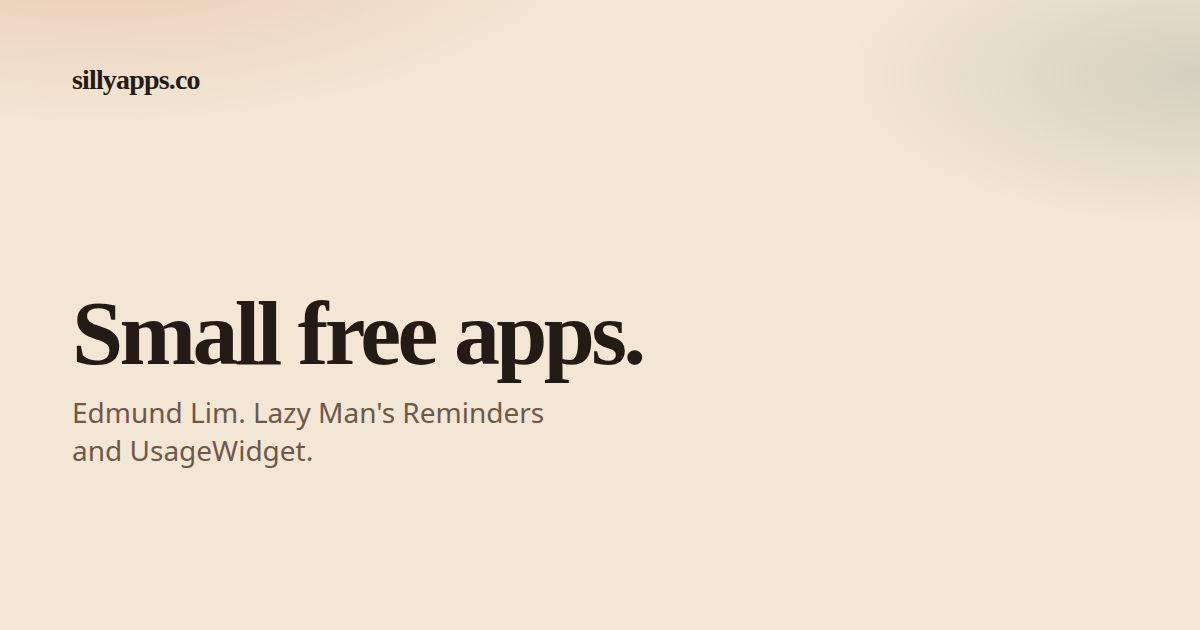
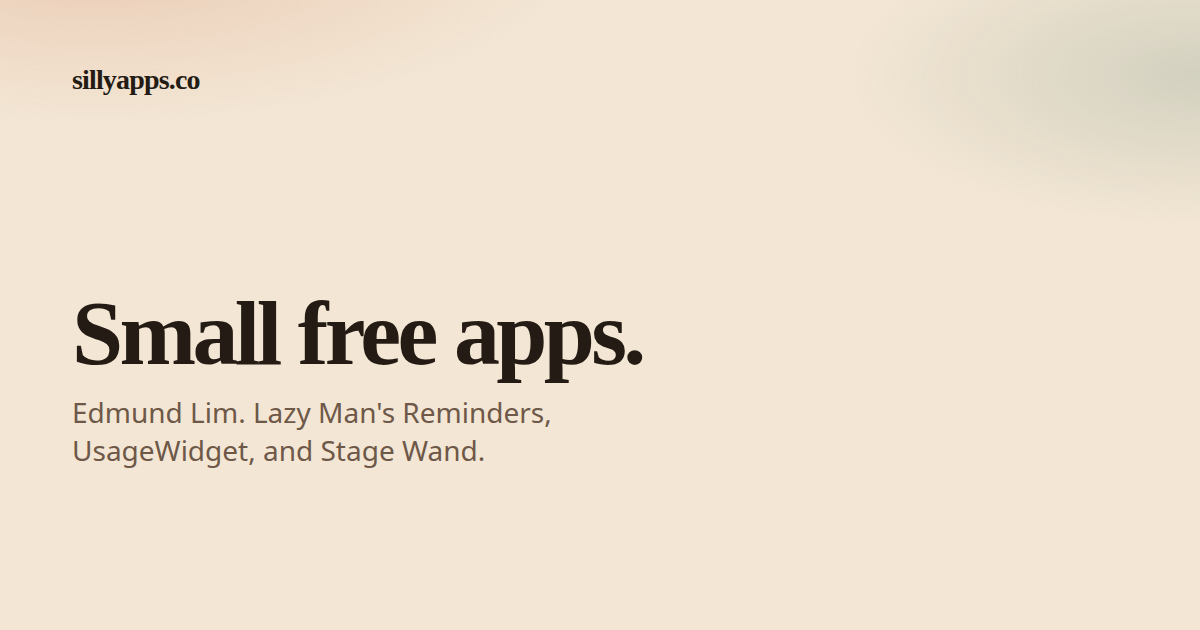
feat(site): add a Stage Wand card to the landing
The home page listed two apps. Stage Wand is a third public app, so the
landing, meta tags, JSON-LD, and OG image name it.

Waitlist stays the primary CTA. GitHub is a ghost button because the
source is public. The checker requires that GitHub URL.

Changed region(s): [[0.0617, 0.6937, 0.4008, 0.754]]

diff --git a/site/index.html b/site/index.html
@@ -4,7 +4,7 @@
     <meta charset="utf-8">
     <meta name="viewport" content="width=device-width, initial-scale=1">
     <title>Silly Apps, small free apps by Edmund Lim</title>
-    <meta name="description" content="sillyapps is Edmund Lim's list of small free apps. Join the waitlist for Lazy Man's Reminders and UsageWidget.">
+    <meta name="description" content="sillyapps is Edmund Lim's list of small free apps. Join the waitlist for Lazy Man's Reminders, UsageWidget, and Stage Wand.">
     <link rel="canonical" href="https://sillyapps.co/">
     <link rel="icon" href="/favicon.svg" type="image/svg+xml">
     <link rel="apple-touch-icon" href="/assets/apple-touch-icon.png">
@@ -14,13 +14,13 @@
     <meta property="og:site_name" content="Silly Apps">
     <meta property="og:url" content="https://sillyapps.co/">
     <meta property="og:title" content="Silly Apps, small free apps by Edmund Lim">
-    <meta property="og:description" content="A one-page list of Edmund Lim's small free apps. Join the waitlist for Lazy Man's Reminders and UsageWidget.">
+    <meta property="og:description" content="A one-page list of Edmund Lim's small free apps. Join the waitlist for Lazy Man's Reminders, UsageWidget, and Stage Wand.">
     <meta property="og:image" content="https://sillyapps.co/assets/og.png">
     <meta property="og:image:width" content="1200">
     <meta property="og:image:height" content="630">
     <meta name="twitter:card" content="summary_large_image">
     <meta name="twitter:title" content="Silly Apps, small free apps by Edmund Lim">
-    <meta name="twitter:description" content="A one-page list of Edmund Lim's small free apps. Join the waitlist for Lazy Man's Reminders and UsageWidget.">
+    <meta name="twitter:description" content="A one-page list of Edmund Lim's small free apps. Join the waitlist for Lazy Man's Reminders, UsageWidget, and Stage Wand.">
     <meta name="twitter:image" content="https://sillyapps.co/assets/og.png">
     <link rel="stylesheet" href="/styles.css">
     <script type="application/ld+json">
@@ -54,6 +54,14 @@
             "operatingSystem": "iOS",
             "offers": { "@type": "Offer", "price": "0", "priceCurrency": "USD" },
             "url": "https://sillyapps.co/"
+          },
+          {
+            "@type": "SoftwareApplication",
+            "name": "Stage Wand",
+            "applicationCategory": "UtilitiesApplication",
+            "operatingSystem": "iOS, macOS",
+            "offers": { "@type": "Offer", "price": "0", "priceCurrency": "USD" },
+            "url": "https://github.com/EdmundLimBoEn/stage-wand"
           }
         ]
       }
@@ -175,6 +183,40 @@
             </ul>
             <p class="cta-row">
               <a class="btn btn-primary" href="#waitlist">Join the waitlist</a>
+            </p>
+          </article>
+
+          <article class="app-card" data-app="stage-wand" data-tone="stage">
+            <div class="app-top">
+              <svg class="icon" viewBox="0 0 72 72" aria-hidden="true">
+                <rect x="12" y="10" width="30" height="52" rx="8" fill="#241c14"/>
+                <rect x="16" y="16" width="22" height="36" rx="3" fill="#fff8ef"/>
+                <rect x="20" y="22" width="14" height="5" rx="1.5" fill="#c45c32"/>
+                <rect x="20" y="31" width="10" height="4" rx="1.5" fill="#e2d0b6"/>
+                <circle cx="27" cy="56" r="2" fill="#ead7bf"/>
+                <circle cx="54" cy="20" r="10" fill="#c45c32"/>
+                <circle cx="54" cy="20" r="4" fill="#fff8ef"/>
+                <rect x="52" y="30" width="4" height="24" rx="2" fill="#c45c32"/>
+              </svg>
+              <div>
+                <p class="app-kicker">Free · iOS 17+ · macOS 14+</p>
+                <h2>Stage Wand</h2>
+              </div>
+              <span class="app-index" aria-hidden="true">03</span>
+            </div>
+            <p class="blurb">
+              Turn an iPhone into a pocket clicker and a trackpad for your Mac.
+              Volume buttons move slides. Unlock the square for pointer, click,
+              scroll, and spaces.
+            </p>
+            <ul class="notes">
+              <li>Volume clicker</li>
+              <li>Trackpad</li>
+              <li>Open source</li>
+            </ul>
+            <p class="cta-row">
+              <a class="btn btn-primary" href="#waitlist">Join the waitlist</a>
+              <a class="btn btn-ghost" href="https://github.com/EdmundLimBoEn/stage-wand">Source on GitHub</a>
             </p>
           </article>
         </div>

diff --git a/site/styles.css b/site/styles.css
@@ -300,6 +300,10 @@ a:hover {
   border-top: 4px solid var(--slate);
 }
 
+.app-card[data-tone="stage"] {
+  border-top: 4px solid var(--accent);
+}
+
 .app-top {
   display: grid;
   grid-template-columns: auto 1fr auto;
@@ -658,6 +662,12 @@ a:hover {
 
   .app-card {
     padding: 1.5rem;
+  }
+}
+
+@media (min-width: 980px) {
+  .app-grid {
+    grid-template-columns: 1fr 1fr 1fr;
   }
 }
 

diff --git a/scripts/og.html b/scripts/og.html
@@ -45,7 +45,7 @@
     <div class="mark">sillyapps.co</div>
     <div>
       <h1>Small free apps.</h1>
-      <p>Edmund Lim. Lazy Man's Reminders and UsageWidget.</p>
+      <p>Edmund Lim. Lazy Man's Reminders, UsageWidget, and Stage Wand.</p>
     </div>
     <div class="foot">
       <span>Not a store. A list.</span>

diff --git a/README.md b/README.md
@@ -108,9 +108,10 @@ curl -fsS -X DELETE -H "Authorization: Bearer $WAITLIST_ADMIN_TOKEN" \
 Copy an `<article class="app-card">` in `site/index.html`. Keep the same fields:
 
 - `data-app` as a stable id
-- `data-tone` as `calm` or `utility` (top border color)
+- `data-tone` as `calm`, `utility`, or `stage` (top border color)
 - kicker, name, blurb, notes
 - a primary waitlist button that points at `#waitlist`
+- an optional `btn-ghost` GitHub link when the source is public
 
 Do not add TestFlight, App Store, or other store download links. Edmund will mail waitlistees when a real link exists.
 
